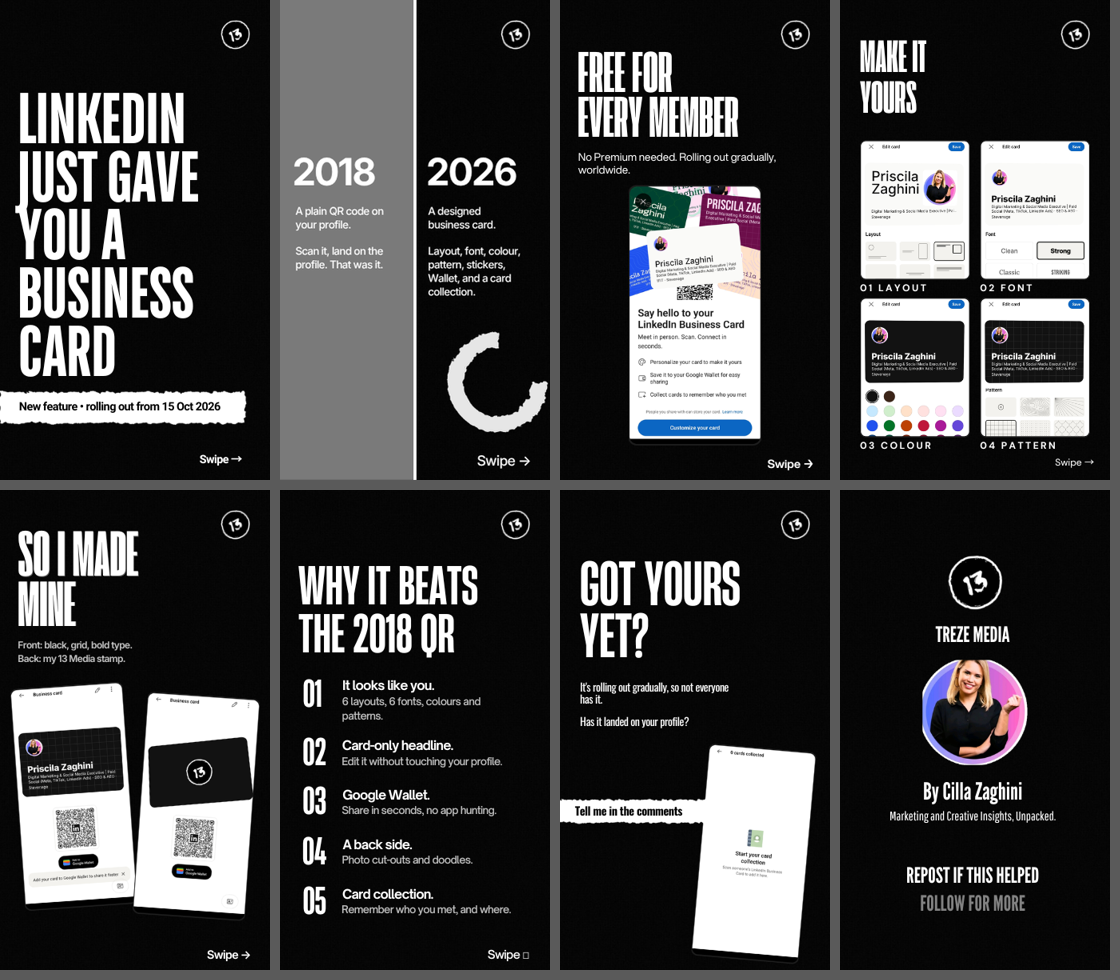
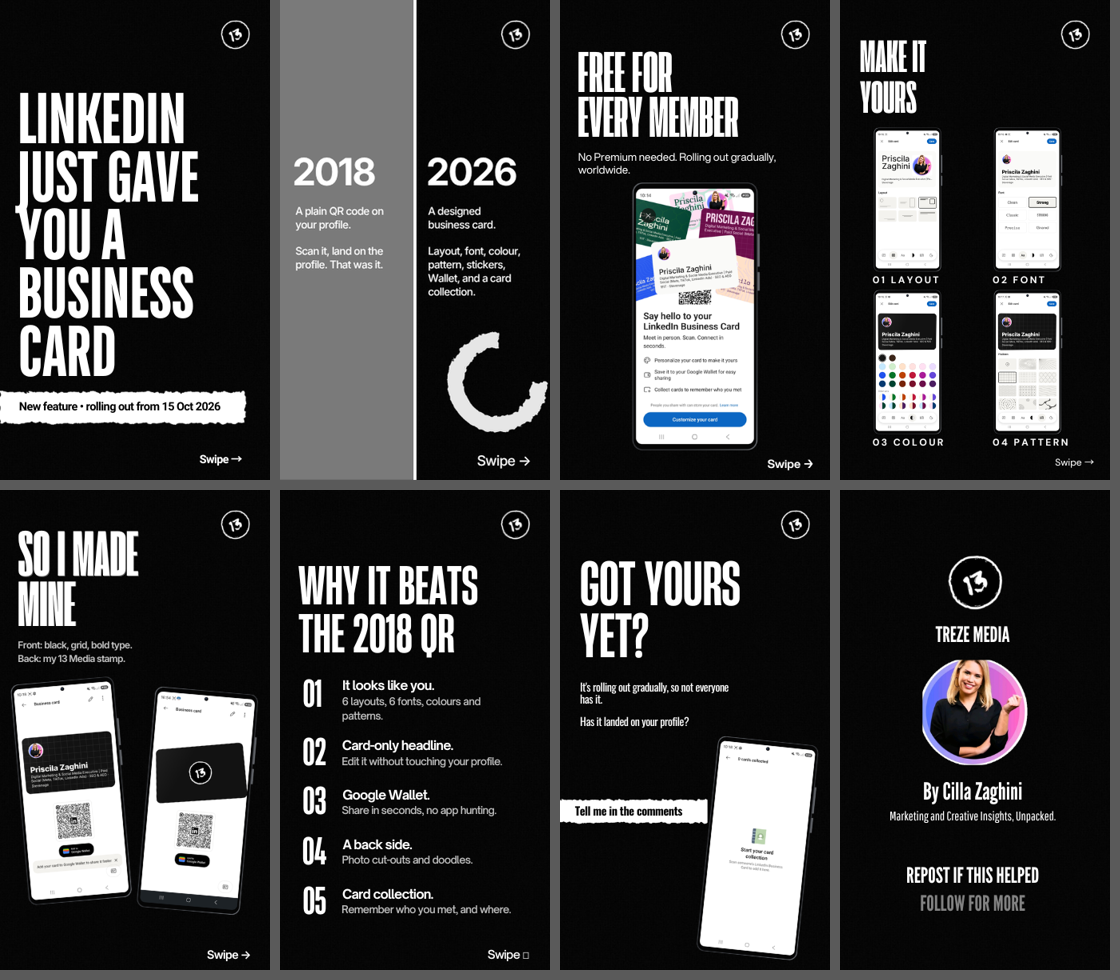
Add phone-frame mockups for the Business Card carousel
Claude-Session: https://claude.ai/code/session_012ub1frYWNMMWKo3NCDYJJk

diff --git a/linkedin-business-card-post/build/phone.html b/linkedin-business-card-post/build/phone.html
@@ -1,0 +1,22 @@
+<!doctype html><html><head><meta charset="utf-8"><style>
+html,body{margin:0;background:transparent}
+.wrap{position:relative;width:1190px;height:2450px;padding:0}
+.body{position:absolute;left:24px;top:0;width:1142px;height:2450px;border-radius:92px;
+ background:linear-gradient(135deg,#5b5e63 0%,#2a2c30 18%,#1b1c1f 50%,#2a2c30 82%,#64676c 100%);
+ box-shadow:0 0 0 2px #77797e inset}
+.bezel{position:absolute;left:10px;top:10px;right:10px;bottom:10px;border-radius:84px;background:#050505}
+.screen{position:absolute;left:31px;top:55px;width:1080px;height:2340px;border-radius:58px;overflow:hidden;background:#000}
+.screen img{display:block;width:1080px;height:2340px}
+.cam{position:absolute;left:50%;top:22px;width:36px;height:36px;margin-left:-18px;border-radius:50%;
+ background:radial-gradient(circle at 40% 40%,#2b3a55 0 18%,#0a0a0f 45%,#000 70%);box-shadow:0 0 0 3px #111}
+.btn{position:absolute;right:0;width:26px;border-radius:0 8px 8px 0;background:linear-gradient(90deg,#3a3c40,#6d7075 60%,#3a3c40)}
+.glare{position:absolute;inset:0;border-radius:58px;background:linear-gradient(115deg,rgba(255,255,255,.10) 0%,rgba(255,255,255,0) 35%);pointer-events:none}
+</style></head><body>
+<div class="wrap" id="p">
+ <div class="btn" style="top:470px;height:300px"></div>
+ <div class="btn" style="top:820px;height:170px"></div>
+ <div class="body"><div class="bezel"></div>
+  <div class="screen"><img id="shot"><div class="cam"></div><div class="glare"></div></div>
+ </div>
+</div>
+</body></html>
